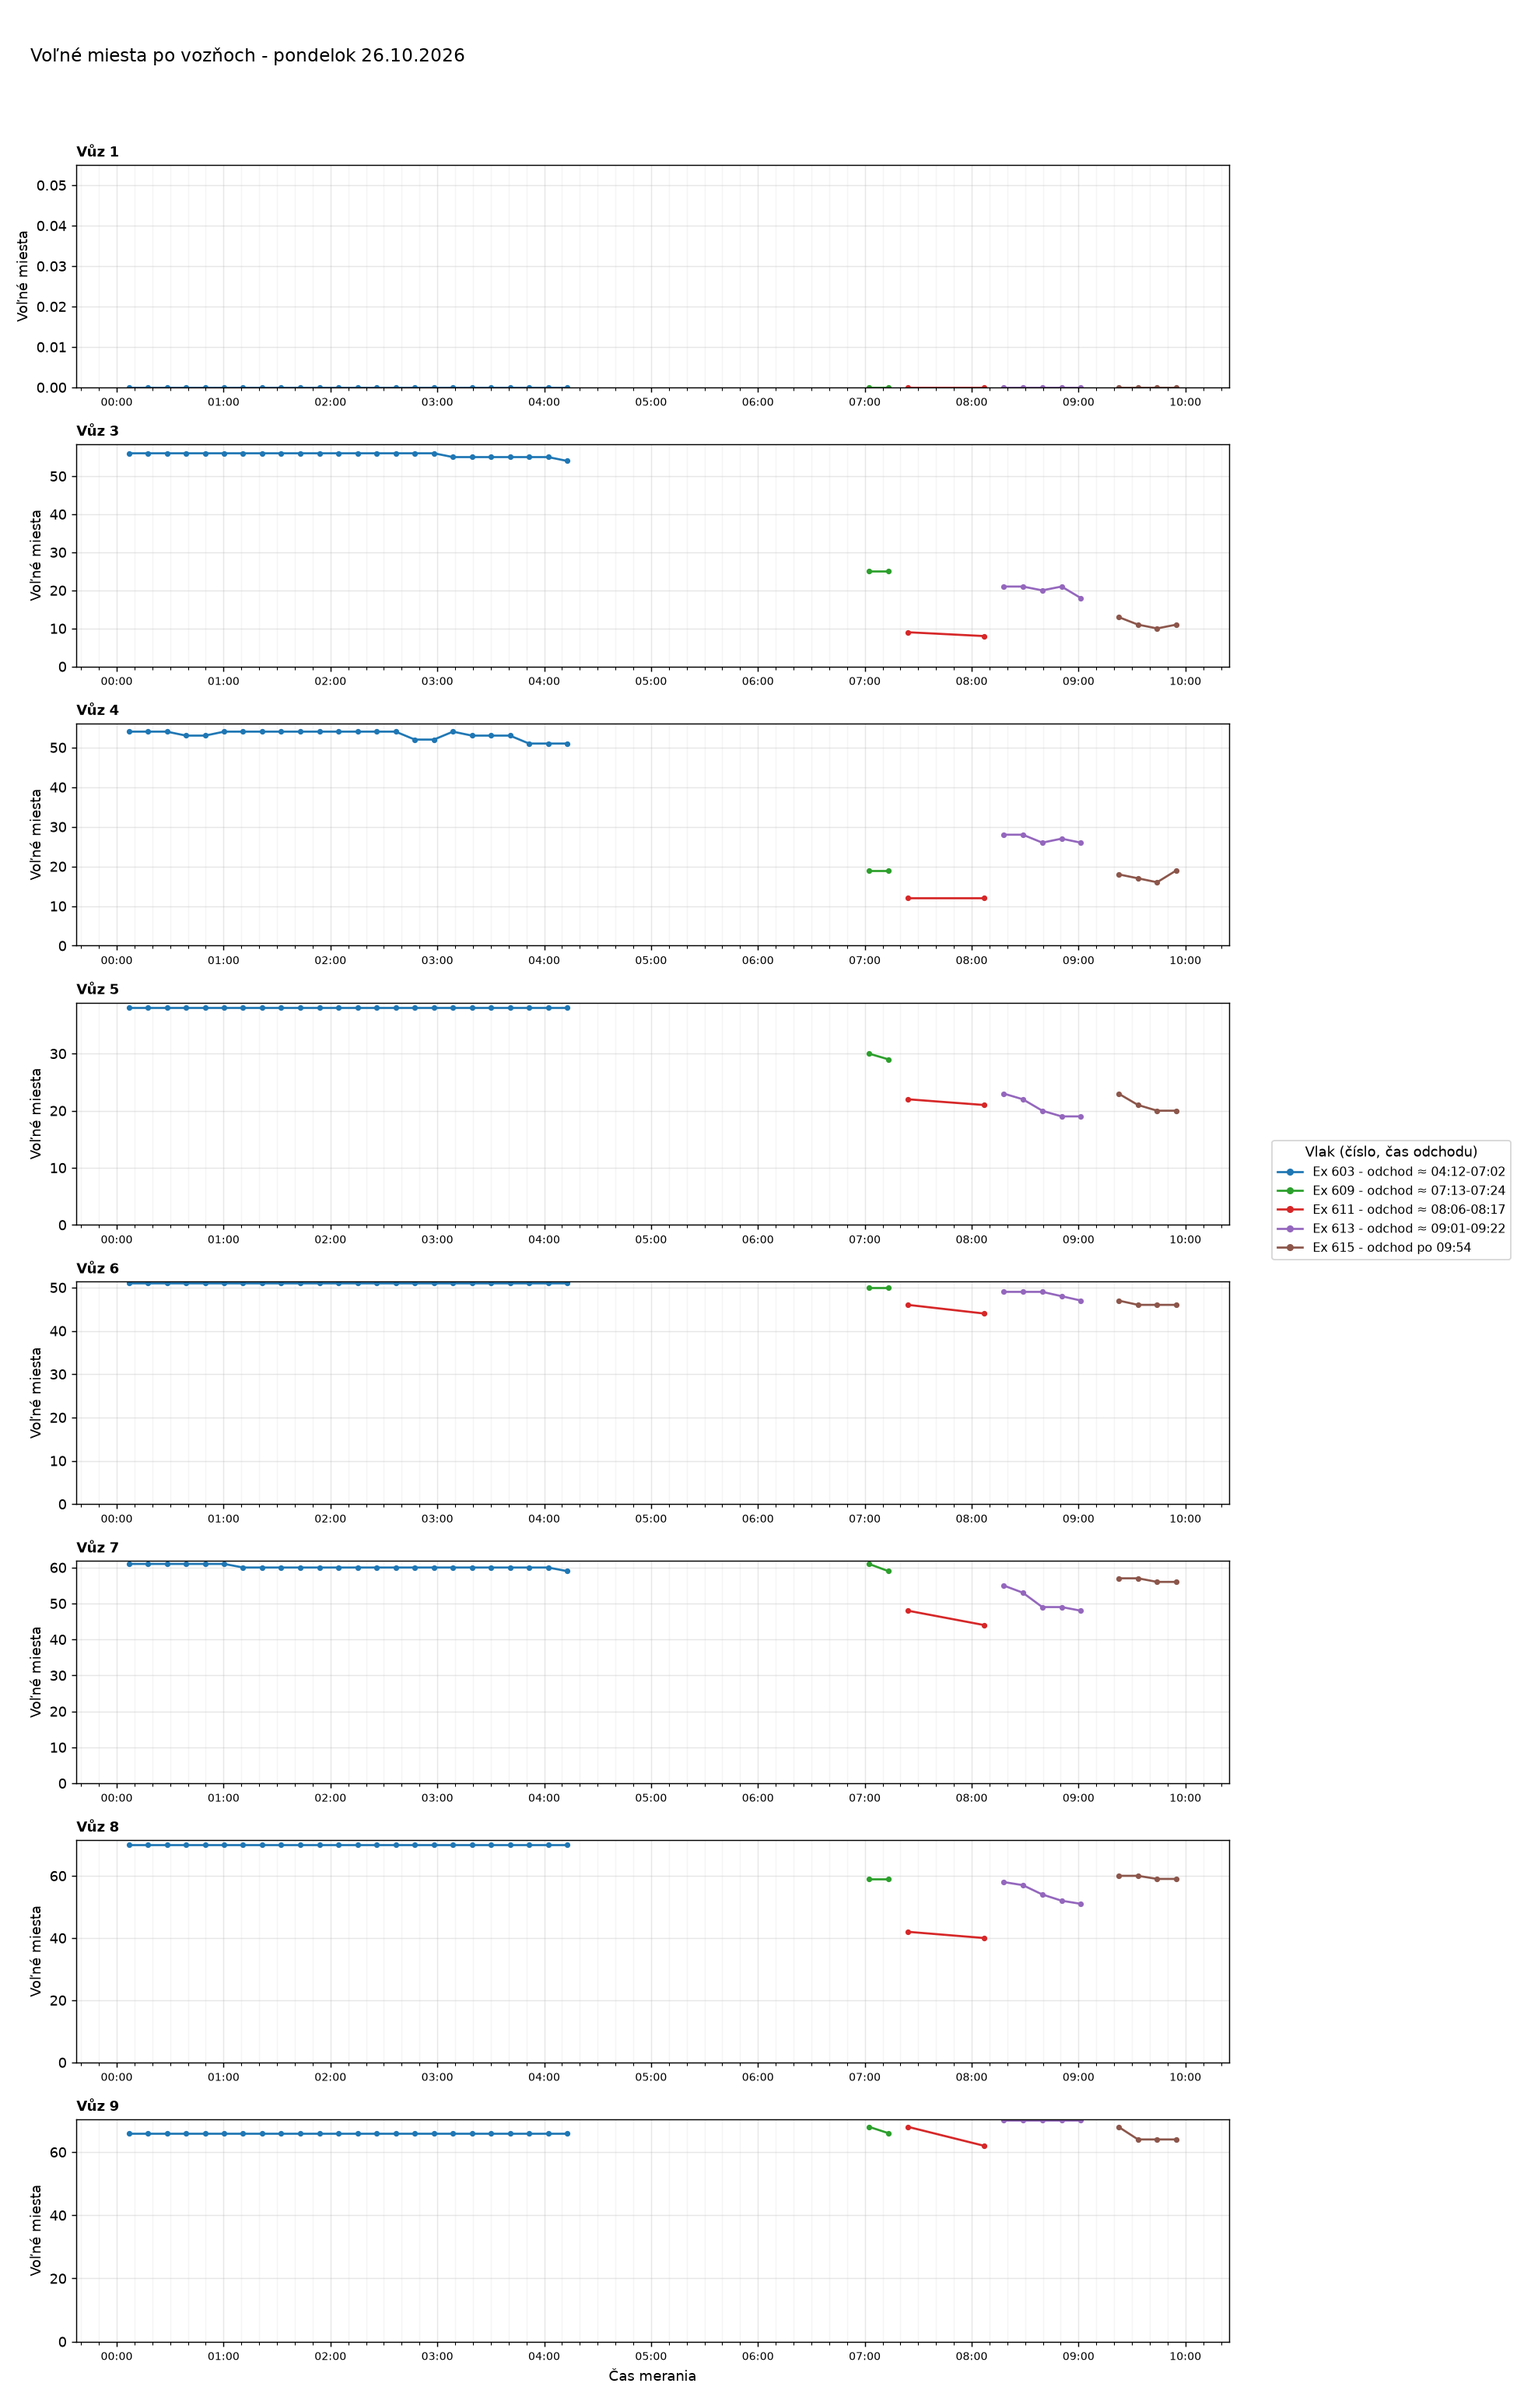
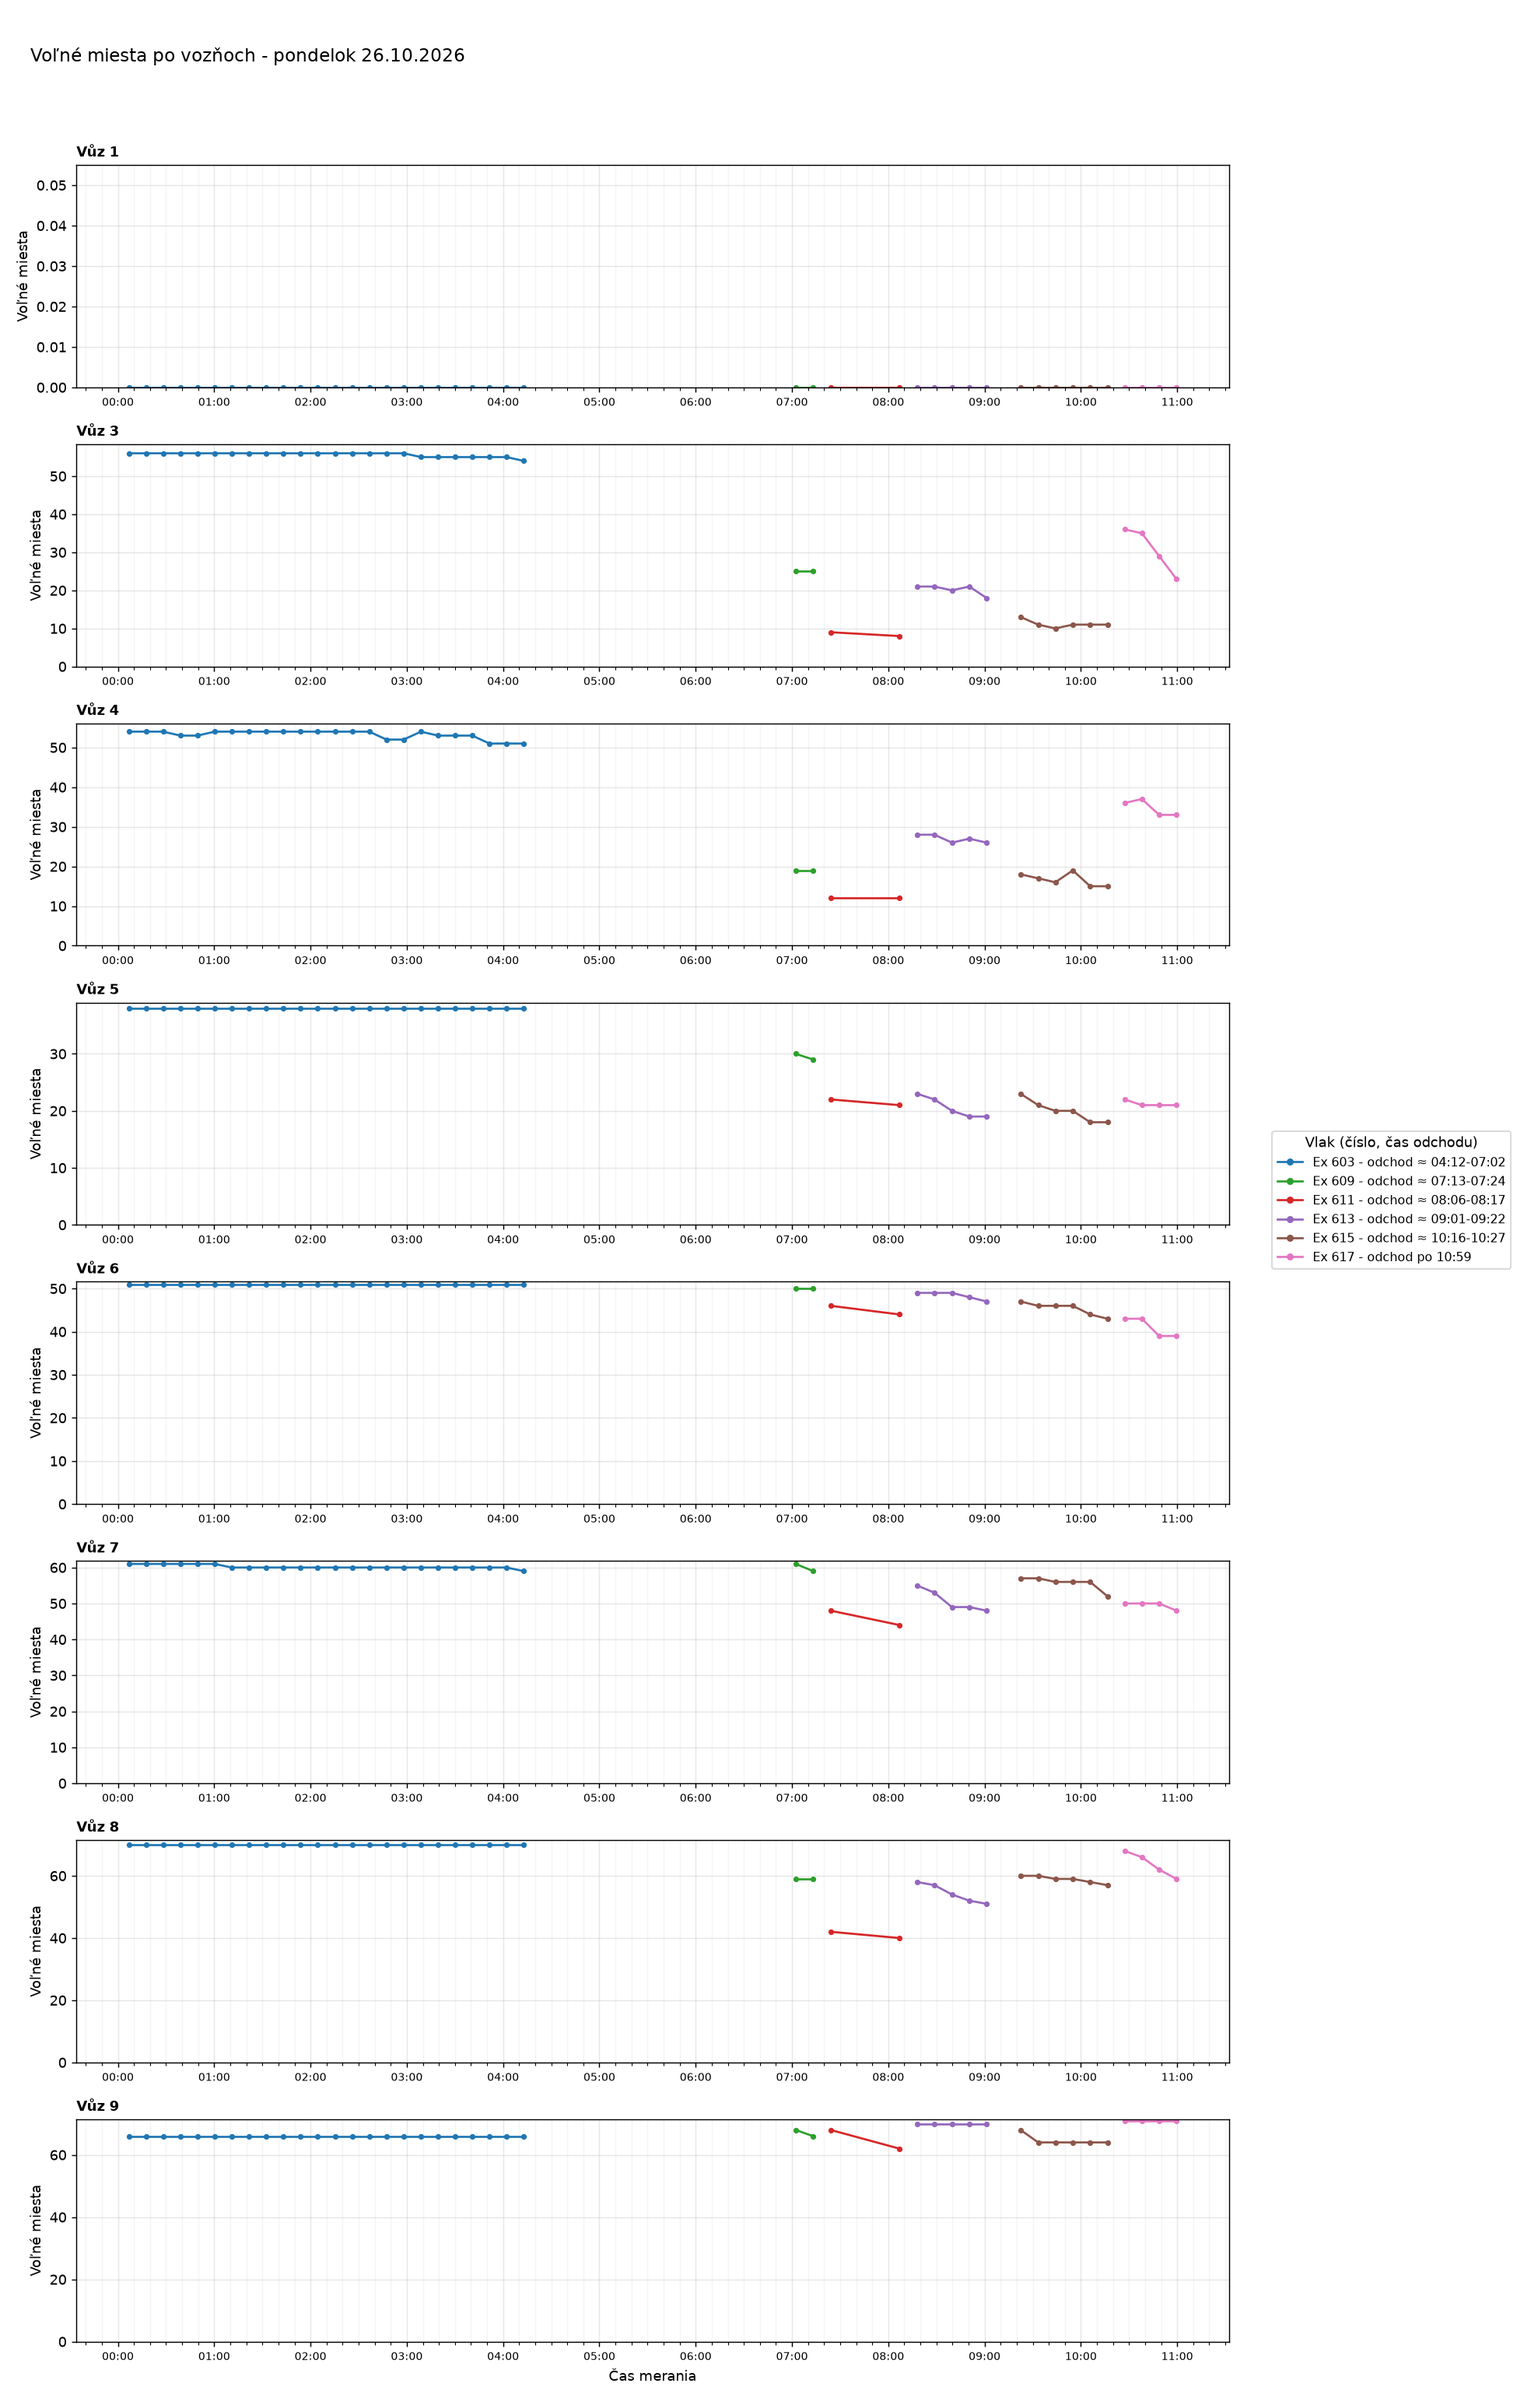
Aktualizácia grafov 2026-10-26 11:04

Changed region(s): [[0.8308, 0.4666, 1.0, 0.5288], [0.2462, 0.28, 0.3385, 0.3111], [0.7385, 0.5288, 0.7692, 0.5599]]

diff --git a/index.html b/index.html
@@ -35,7 +35,7 @@ h2.oddiel{margin:36px 0 0;font-size:1.4rem}
 <body>
 <main>
 <h1>Voľné miesta vo vlakoch</h1>
-<p class="muted">Posledné meranie: 26.10.2026 09:54 ·
+<p class="muted">Posledné meranie: 26.10.2026 10:59 ·
 <a href="data/obsadenost_data.csv">stiahnuť dáta (CSV)</a></p>
 <nav class="nav"><a href="#suhrn">Súhrn</a><a href="#statistiky">Štatistiky</a><a href="#historia">História grafov</a></nav>
 
@@ -44,7 +44,7 @@ h2.oddiel{margin:36px 0 0;font-size:1.4rem}
 <div class="tablewrap"><table>
 <thead><tr><th>Deň</th><th>Meraní</th><th>Vlakov</th><th>Čas meraní</th></tr></thead>
 <tbody>
-<tr><td><a href="#d2026-10-26">pondelok 26.10.2026</a></td><td>37</td><td>5</td><td>00:06-09:54</td></tr>
+<tr><td><a href="#d2026-10-26">pondelok 26.10.2026</a></td><td>43</td><td>6</td><td>00:06-10:59</td></tr>
 <tr><td><a href="#d2026-10-25">nedeľa 25.10.2026</a></td><td>101</td><td>15</td><td>00:01-23:56</td></tr>
 <tr><td><a href="#d2026-10-24">sobota 24.10.2026</a></td><td>98</td><td>14</td><td>00:10-23:50</td></tr>
 <tr><td><a href="#d2026-10-23">piatok 23.10.2026</a></td><td>64</td><td>13</td><td>07:25-23:49</td></tr>
